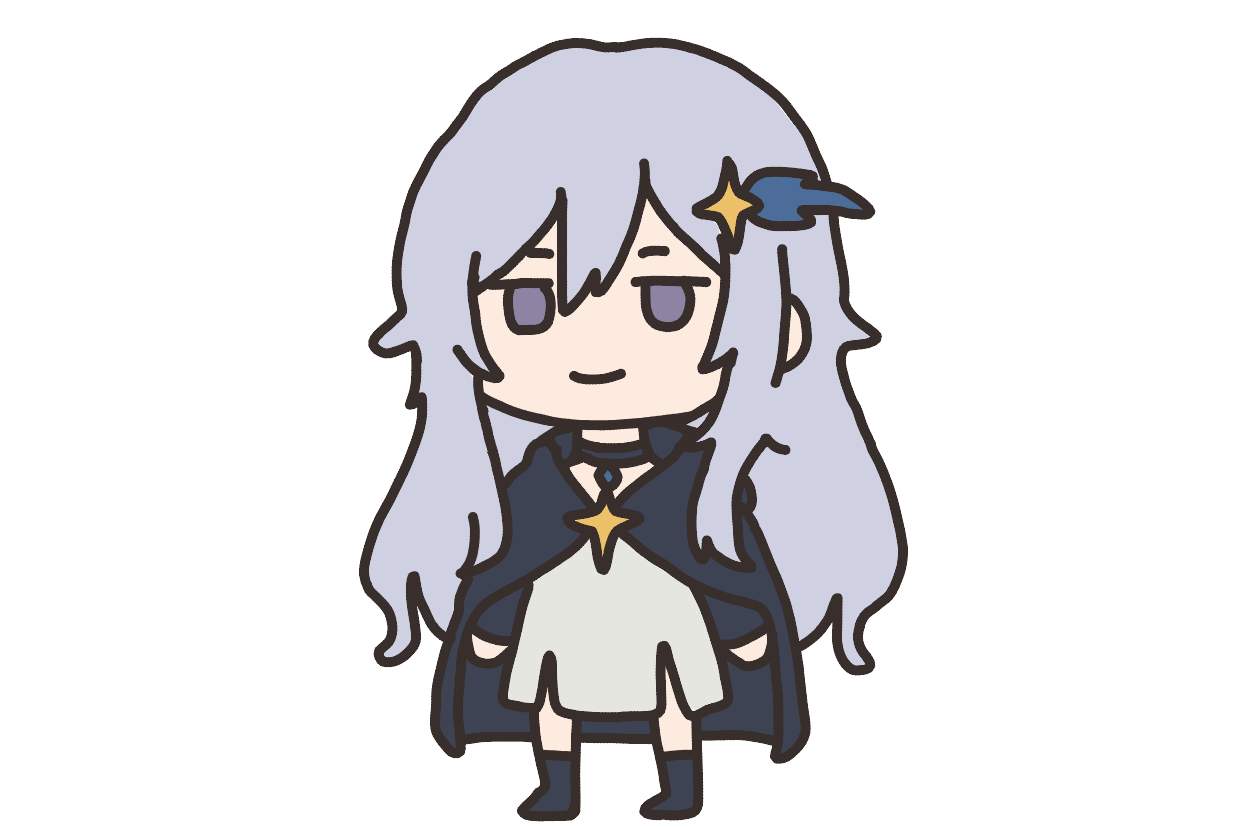
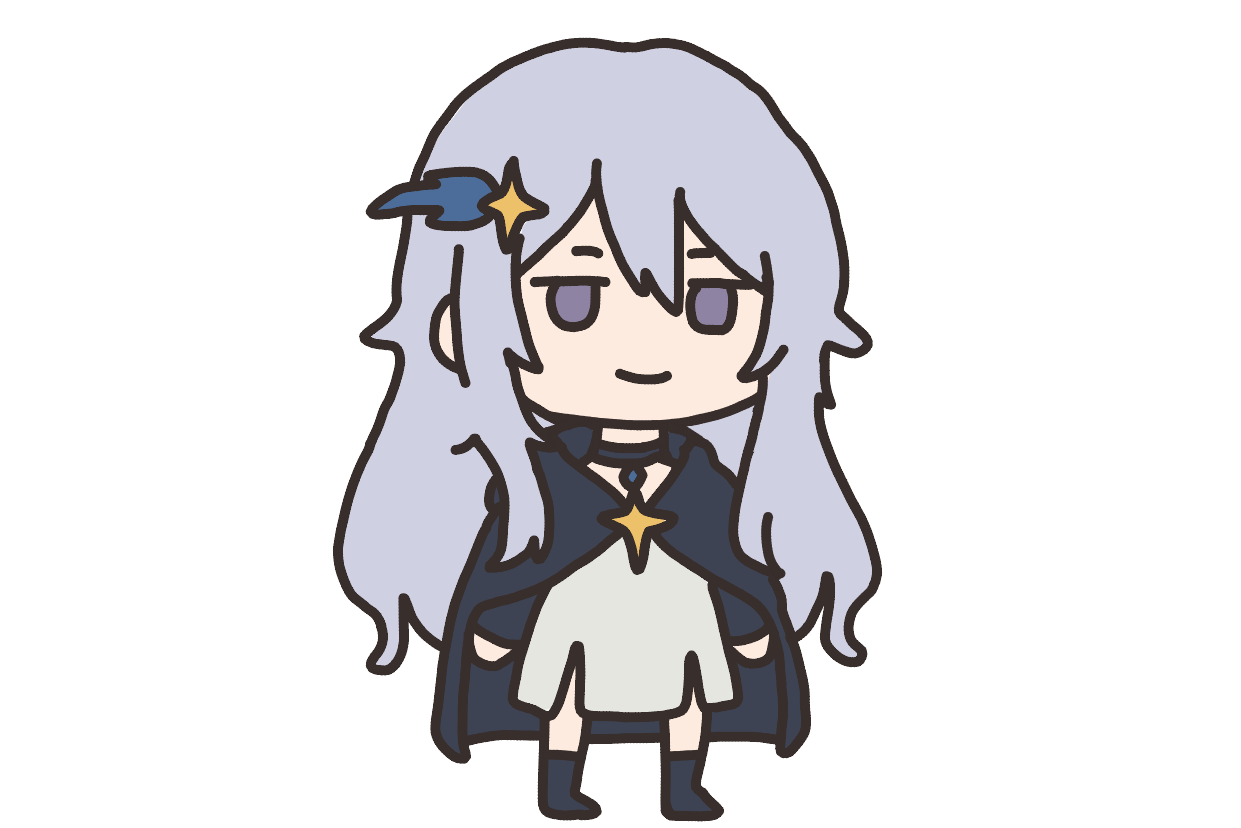
fix(tutorial): Sui actually faces right; say-hello spotlight renders
- sui-stand-flipped.png / sui-talk-flipped.png were byte-identical to the
  base art: the mirror was never applied, so the tutorial's left-corner
  Sui faced left while the code loaded the "flipped" file. (The walk-out
  flip never noticed because it mirrors via CSS scaleX.) Files are now
  true mirrors.
- Button swallowed the data-tutorial prop (declared, never rendered), so
  the say-hello step's querySelector found nothing and drew a full scrim
  with no highlight. Forwarded to the DOM; also fixes chat-cta.

Claude-Session: https://claude.ai/code/session_018VWC8yoKdeQ2YuH4dHPqzy

Changed region(s): [[0.245, 0.0604, 0.7349, 0.9964], [0.4593, 0.0302, 0.5205, 0.0604], [0.3981, 0.0604, 0.4287, 0.0906]]

diff --git a/src/renderer/src/components/Button.tsx b/src/renderer/src/components/Button.tsx
@@ -66,6 +66,10 @@ export function Button({
       aria-label={rest['aria-label']}
       aria-disabled={rest['aria-disabled']}
       aria-pressed={rest['aria-pressed']}
+      // Must reach the real DOM: the tutorial finds its spotlight targets via
+      // document.querySelector('[data-tutorial=...]'). Declaring the prop
+      // without forwarding it left the say-hello step highlighting nothing.
+      data-tutorial={rest['data-tutorial']}
     >
       {icon}
       {children}
